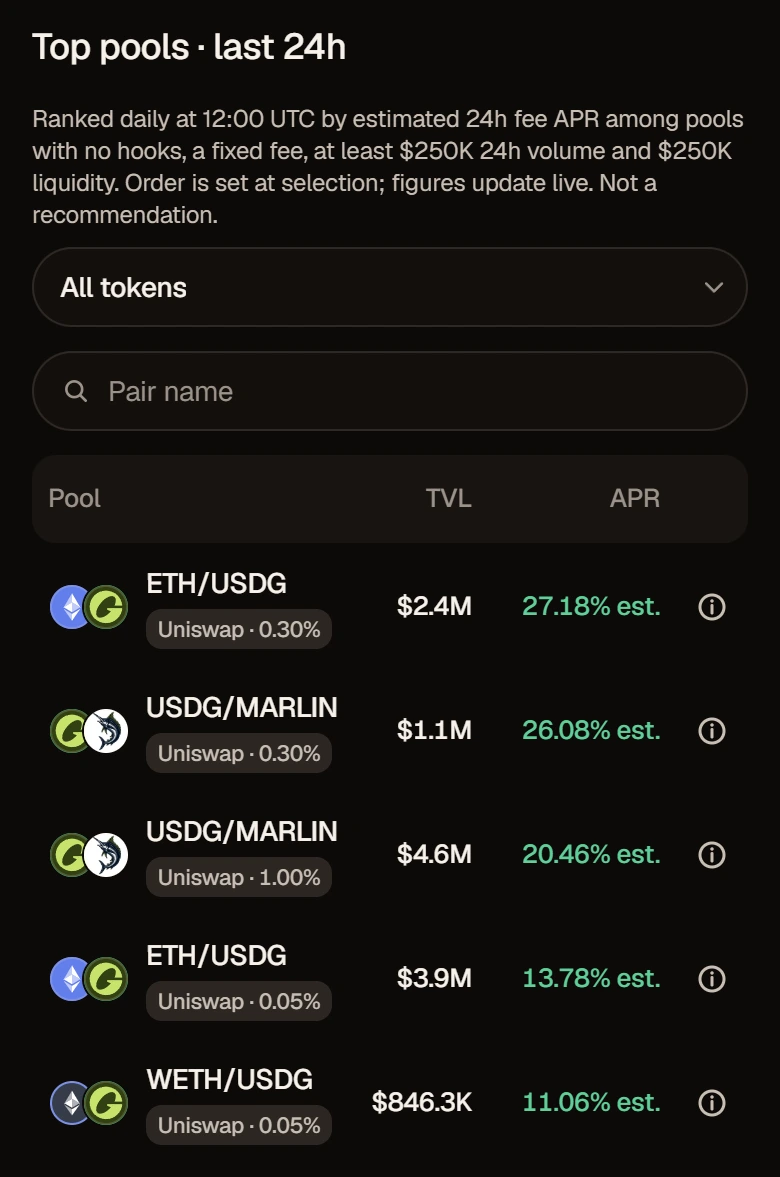
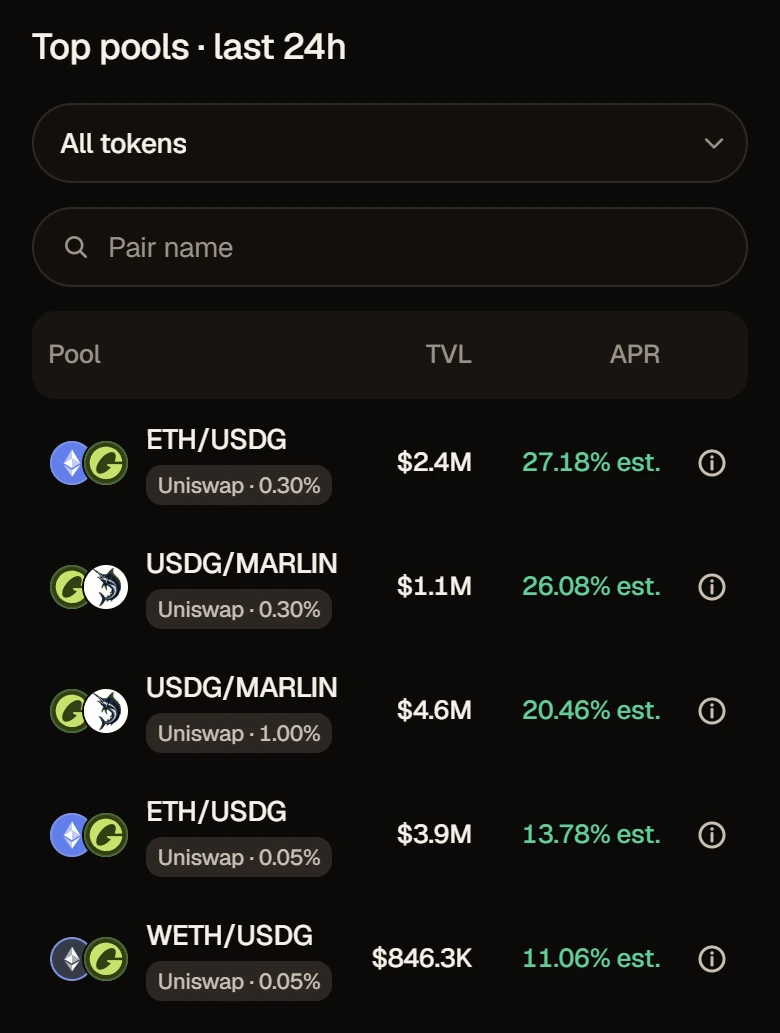
Top pools: no method line; newly listed pools wait for their first figures (#252)
* Top pools: remove the method line under the title

The owner, 2026-09-28: "Não precisa ter essa descrição." The line under
"Top pools · last 24h" ("Ranked daily at 12:00 UTC by estimated 24h fee
APR ... Not a recommendation.") is gone from Home and Markets, with its CSS,
and featuredList.ts no longer writes it: methodLine, usdFloor,
FEATURED_SELECTION_TIME_UTC and the list's `method` field are removed.

The title and the Pinned chip stay as they were. The criterion title still
needs a current list that names its rules (it used to need the line, which
needed the rules), so a current list with `rules: null` keeps the neutral
title, now tested. The docs page no longer points to "the line under the
title"; the README says the line was removed.

Tests changed on purpose, each with a dated note: featured-list (the line's
text and its selection-time test become title tests), release.browser (r)
asserts no line anywhere, render and release.browser (s)/(t) keep only the
Pinned-chip check, pool-workspace's stub drops the field.

* Pool figures: wait for a pool's first collection, and past a rate-limited one

The owner's Home on production, 2026-09-28, the first day of the daily list:
ETH/NOTE and PONS/USDG said Unavailable for TVL and 24h volume, and the
Worker saw the overview asked at 12:53:13, :16 and :19, then nothing.

The page waited for a pool's figures only when the store had once kept
provider figures for it (cache ageSeconds set), and stopped waiting at the
[…]

diff --git a/app/src/lib/read/marketsProvider.ts b/app/src/lib/read/marketsProvider.ts
@@ -139,6 +139,38 @@
  * store's own time), 0.2 s on a later visit (1.6 s before, 2.7 s and 3.5 s
  * when the list or the store was slow), 7.4 s after a first overview that
  * failed (never before).
+ *
+ * Changed 2026-09-28, from the owner's Home on production, the first day of
+ * the daily list: ETH/NOTE and PONS/USDG said Unavailable within seconds, the
+ * overview was asked at 12:53:13, :16 and :19, and then not before the
+ * minute. The rule above waited only for a pool whose provider figures the
+ * store had once kept (`ageSeconds` set), and stopped at the first collection
+ * published without figures, even one the provider had rate limited. The
+ * store serves `ageSeconds` null whenever its collector holds no figures for
+ * the pool at all (backend/market_cache.py `_result`): never fetched since the
+ * collector started, and every call since refused, rate limited or failed. A
+ * pool never collected has no stored value at all (acquisition `pending`).
+ * Both are collected within five seconds of this very request as well, so:
+ *
+ *   - a pool whose figures are coming is one with none on hand (no stored
+ *     value, or provider figures unavailable) whose store's last collection
+ *     did not fail and whose next one runs now or within
+ *     CATCH_UP_HORIZON_MS, whatever `ageSeconds` says (catchUpInMs);
+ *   - a pool with no stored value shows its placeholder in the catalogue row
+ *     (`placeholders`) under the same CATCH_UP_SHOWN_MS as a read row;
+ *   - a collection the provider was busy or rate limited for (providerWasBusy)
+ *     does not end the wait: the next one, seconds later while the pool is
+ *     wanted, may bring the figures, so the asks go on to the end of
+ *     CATCH_UP_WINDOW_MS. A collection that brought none for any other reason
+ *     (the provider does not list the pool, say) still ends it at once, so
+ *     such a pool costs a visit an ask or two and a placeholder of a few
+ *     seconds (6.5 s when the store collects on time, CATCH_UP_SHOWN_MS at the
+ *     most), not the twenty seconds that made the review of 2026-09-25 leave
+ *     it out.
+ *
+ * A row still unavailable after the window is asked again with the ordinary
+ * refresh, once a minute while the page can be seen (a hidden page waits
+ * until it can be), in place and quietly; nothing else changes.
  */
 import type { PoolMarketResponse, SnapshotPoolEntry, VerifiedPool } from 'api-contracts/read-v1/types'
 import type { StoredPool } from 'api-contracts/read-v3/types'
@@ -167,7 +199,14 @@ export interface Retained {
 export type MarketsState =
   /** `retrying` is the failure a refresh is trying to get past, still on screen meanwhile. */
   | { phase: 'loading'; previous: MarketsResult | null; retrying: FailedOutcome | null }
-  | { phase: 'ready'; result: MarketsResult; problems: MarketProblem[]; acquiring?: boolean }
+  | {
+      phase: 'ready'
+      result: MarketsResult
+      problems: MarketProblem[]
+      acquiring?: boolean
+      /** Pools with no row yet whose figures are coming: their catalogue rows show a placeholder, lowercase (see the header). */
+      placeholders?: readonly string[]
+    }
   /** Nothing new to show. `retained` is the last good read, already marked stale. */
   | { phase: 'failed'; failure: FailedOutcome; retained: Retained | null }
 
@@ -258,15 +297,15 @@ export const CATCH_UP_SHOWN_MS = 8_000
 /**
  * How far off a stored pool's figures are, when they are coming: in MILLISECONDS of server time from the answer
  * (`nextAttemptAt - generatedAt`, never this browser's clock), 0 while a collection runs. Null when they are not
- * coming soon: figures on hand; a pool the provider never gave figures for (`ageSeconds` null: nothing to bring
- * back); a collection that failed (`reason` set: the store backs it off for up to five minutes and a request does
- * not bring it forward); a next collection further off than CATCH_UP_HORIZON_MS, or none named; a rejected pool.
+ * coming soon: figures on hand, or provider figures rejected; a collection that failed (`reason` set: the store backs
+ * it off for up to five minutes and a request does not bring it forward); a next collection further off than
+ * CATCH_UP_HORIZON_MS, or none named; a rejected pool. Changed 2026-09-28 (see the header): a pool with no stored
+ * value yet, and one whose collector holds no figures for it (`ageSeconds` null), are coming too.
  */
 export function catchUpInMs(entry: StoredPool, generatedAt: number): number | null {
   const { value, acquisition } = entry
-  if (value === null || acquisition.status !== 'ready' || acquisition.reason !== null) return null
-  const market = value.market.market
-  if (market.status !== 'unavailable' || market.cache.ageSeconds === null) return null
+  if (acquisition.status === 'rejected' || acquisition.reason !== null) return null
+  if (value !== null && value.market.market.status !== 'unavailable') return null
   if (acquisition.refreshing) return 0
   if (acquisition.nextAttemptAt === null) return null
   const inMs = Math.max(0, acquisition.nextAttemptAt - generatedAt) * 1000
@@ -431,6 +470,8 @@ interface Load extends LoadedMarkets {
   catchUpInMs?: number | null
   /** Every pool of the stored overview whose figures are coming (`catchUpInMs`), lowercase, waiting or not; absent when no overview was read. */
   behind?: string[]
+  /** Pools with no row whose figures are coming, shown as a placeholder (MarketsState `placeholders`), lowercase. */
+  placeholders?: string[]
   /** Pools whose read did not bind to their entry (LoadOptions.binds), lowercase: they have no row. */
   unbound: string[]
   /** The stored overview this load read, as it came: what this browser keeps a copy of (marketsPaint.ts). */
@@ -605,6 +646,7 @@ async function readMarkets(
         acquisitionInMs: due.length ? Math.max(0, Math.min(...due) - overview.data.generatedAt) * 1000 : null,
         catchUpInMs: soonest,
         behind,
+        placeholders: [...figuresBehind].filter((id) => !ledger.sources.has(id)),
       }
     }
   }
@@ -865,7 +907,8 @@ export function createReadMarketsProvider({ source, poolIds: initialIds, pools, 
 
   /**
    * Whether a behind pool's row waits for its figures (LoadOptions.catchUp), asked as its answer arrives: not once
-   * a collection published since it began waiting brought none, nor when the ask that would bring them falls past
+   * a collection published since it began waiting brought none (unless the provider was busy or rate limited for
+   * it: the next collection may bring them; changed 2026-09-28), nor when the ask that would bring them falls past
    * CATCH_UP_WINDOW_MS from the answer it began waiting with, or at the ordinary refresh, nor while no screen holds
    * the quiet re-asks. It shows a placeholder only while that ask falls within CATCH_UP_SHOWN_MS.
    */
@@ -876,7 +919,7 @@ export function createReadMarketsProvider({ source, poolIds: initialIds, pools, 
     const at = clock.monotonic()
     const seen = behindSince.get(id)
     if (seen?.over) return false
-    const collected = seen !== undefined && (entry.observedAt ?? -1) > (seen.observedAt ?? -1)
+    const collected = seen !== undefined && (entry.observedAt ?? -1) > (seen.observedAt ?? -1) && !(entry.value && providerWasBusy(entry.value.market.market))
     const since = seen?.since ?? at
     const interval = catchUpIntervalMs(inMs)
     const over = collected || interval >= activeRefreshMs || at - since + interval > CATCH_UP_WINDOW_MS
@@ -957,7 +1000,6 @@ export function createReadMarketsProvider({ source, poolIds: initialIds, pools, 
       if (age >= TOKEN_METADATA_CACHE_MS || age < 0) memory.tokens?.delete(address)
     }
     const retrying = from.phase === 'failed' ? from.failure : from.phase === 'loading' ? from.retrying : null
-    const problemsBefore = from.phase === 'ready' ? from.problems : []
     if (!inPlace) set({ phase: 'loading', previous, retrying })
     // Rows whose figures are coming wait for them only where this provider asks again on its own.
     memory.catchUp = refreshMs > 0 ? catchUpWaits : undefined
@@ -999,7 +1041,7 @@ export function createReadMarketsProvider({ source, poolIds: initialIds, pools, 
           const row = read ? withKept(read) : previous?.markets.find((m) => key(m.poolId) === key(poolId))
           return row ? [row] : []
         })
-        set(inPlace ? { phase: 'ready', result: resultOf(markets), problems: problemsBefore } : { phase: 'loading', retrying, previous: resultOf(markets) })
+        set(inPlace && from.phase === 'ready' ? { ...from, result: resultOf(markets) } : { phase: 'loading', retrying, previous: resultOf(markets) })
       },
       memory,
       quiet && ledger && again ? { ledger, plan: again } : undefined,
@@ -1056,7 +1098,7 @@ export function createReadMarketsProvider({ source, poolIds: initialIds, pools, 
     const catchUp = !quiet && loaded.catchUpInMs != null ? catchUpIntervalMs(loaded.catchUpInMs) : null
     if (!quiet) catchUpAsks = catchUp === null ? 0 : catchUpAsks + 1
     if (!quiet) nextRefresh(loaded.problems.length > 0, markets.length > 0, loaded.acquiring, { inMs: loaded.acquisitionInMs ?? null, running: loaded.acquisitionRunning === true }, catchUp)
-    set({ phase: 'ready', result: resultOf(markets), problems: loaded.problems, ...(loaded.acquiring ? { acquiring: true } : {}) })
+    set({ phase: 'ready', result: resultOf(markets), problems: loaded.problems, ...(loaded.acquiring ? { acquiring: true } : {}), ...(loaded.placeholders?.length ? { placeholders: loaded.placeholders } : {}) })
     settledLoad(loaded.unbound)
   }
 

diff --git a/app/src/lib/read/featuredList.ts b/app/src/lib/read/featuredList.ts
@@ -42,7 +42,6 @@ import type { FeaturedPool, FeaturedPoolsResponse } from 'api-contracts/read-v5/
 import { mainTokenAt, readsAsMainToken } from '../../config/mainTokens'
 import { SELECTED_POOL_CATALOGUE, catalogueTokens, type PoolCatalogueEntry } from '../../config/selectedPoolCatalogue'
 import { createBridgeSource, type BridgeOptions } from './bridgeSource'
-import { formatUsdCompact } from './decimal'
 import type { PoolList } from './marketsProvider'
 import { realClock, type Clock } from './pipeline'
 import { fixedFeePercent } from './screens/fee'
@@ -203,12 +202,10 @@ export interface FeaturedList {
   entries: readonly PoolCatalogueEntry[]
   /** The server's listId; null for the embedded list. */
   listId: string | null
-  /** The method line of a `server` list (§11.7, option B), from the answer's own rules; null otherwise. */
-  method: string | null
 }
 
 /** The embedded list: config/selectedPools.ts with its labels. */
-export const BUNDLED_LIST: FeaturedList = Object.freeze({ source: 'bundled', entries: SELECTED_POOL_CATALOGUE, listId: null, method: null })
+export const BUNDLED_LIST: FeaturedList = Object.freeze({ source: 'bundled', entries: SELECTED_POOL_CATALOGUE, listId: null })
 
 /** Bundled artwork for a token by its exact address: the main tokens', else the embedded list's; none for any other token. */
 function artworkAt(address: string) {
@@ -256,29 +253,6 @@ export function bindsToEntry(entry: PoolCatalogueEntry | undefined, pool: Verifi
     && currencies.length === 2 && currencies[0] === want.currency0 && currencies[1] === want.currency1
 }
 
-/** "$250K", "$1.5M": a rule's USD floor as the method line writes it. */
-function usdFloor(text: string): string | null {
-  return formatUsdCompact(text)?.replace(/\.0(?=[KMB]$)/, '') ?? null
-}
-
-/**
- * The hour of the daily selection, as the owner approved it (spec §15, question 8: "12:00 UTC, one a day"): the
- * policy's `selectionHourUtc`, which the answer does not carry. Never the answer's `effectiveAt`: the service sets
- * that to when it served the list, so a repair at 17:42 or a list published at 12:07 would print that time (fixed
- * 2026-09-26 after review).
- */
-export const FEATURED_SELECTION_TIME_UTC = '12:00'
-
-/** The method line of §11.7 option B, from the answer's rules; null without them. */
-export function methodLine(answer: FeaturedPoolsResponse): string | null {
-  const rules = answer.rules
-  if (!rules) return null
-  const volume = usdFloor(rules.minVolume24hUsd)
-  const tvl = usdFloor(rules.minTvlUsd)
-  if (!volume || !tvl) return null
-  return `Ranked daily at ${FEATURED_SELECTION_TIME_UTC} UTC by estimated 24h fee APR among pools with no hooks, a fixed fee, at least ${volume} 24h volume and ${tvl} liquidity. Order is set at selection; figures update live. Not a recommendation.`
-}
-
 /** The list an answer puts on screen by itself (§11.2), as on a page's first read. */
 export function listFrom(answer: FeaturedAnswer): FeaturedList {
   if (answer.kind !== 'list') return BUNDLED_LIST
@@ -287,8 +261,9 @@ export function listFrom(answer: FeaturedAnswer): FeaturedList {
   // Every time is the server's own. A list without them, or older than 72 h when served, is not shown.
   if (pools.length === 0 || generatedAt === null || validUntil === null || servedAt > generatedAt + FEATURED_MAX_AGE_SECONDS) return BUNDLED_LIST
   const current = (body.status === 'current' || body.status === 'repaired') && servedAt <= validUntil
-  const method = current ? methodLine(body) : null
-  return { source: current && method ? 'server' : 'server_neutral', entries: pools.map(entryOf), listId: body.listId, method }
+  // The criterion title only for a list that names the rules it was ranked by. The method line that spelled them out
+  // under the title was removed 2026-09-28 (the owner: "Não precisa ter essa descrição"); the docs page says how.
+  return { source: current && body.rules !== null ? 'server' : 'server_neutral', entries: pools.map(entryOf), listId: body.listId }
 }
 
 const idsOf = (list: FeaturedList) => list.entries.map((entry) => entry.poolId)
@@ -310,7 +285,7 @@ export function nextList(shown: FeaturedList, waiting: FeaturedList | null, answ
   const candidate = listFrom(answer)
   if (candidate.source === 'bundled') return { shown: BUNDLED_LIST, waiting: null }
   // The same list: its pools and order stay; its title follows the answer (a list gone stale says so).
-  if (shown.source !== 'bundled' && candidate.listId === shown.listId) return { shown: { ...shown, source: candidate.source, method: candidate.method }, waiting: null }
+  if (shown.source !== 'bundled' && candidate.listId === shown.listId) return { shown: { ...shown, source: candidate.source }, waiting: null }
   const ids = idsOf(candidate)
   if (shown.source !== 'bundled' && onlyRemovals(idsOf(shown), ids)) return { shown: candidate, waiting: null }
   // New pools or a new order wait. Pools the service no longer lists leave the list on screen at once, unless none would stay.
@@ -366,9 +341,9 @@ export function createFeaturedStore({ read, clock = realClock }: { read: (signal
     const ids = idsOf(shown).join()
     if (ids !== idsOf(snapshot).join()) shownAt = clock.monotonic()
     const same = snapshot.settled && ids === idsOf(snapshot).join() && shown.listId === snapshot.listId && shown.source === snapshot.source
-      && shown.method === snapshot.method && [...withdrawn].join() === [...snapshot.withdrawn].join()
+      && [...withdrawn].join() === [...snapshot.withdrawn].join()
     if (same) return
-    snapshot = { source: shown.source, entries: shown.entries, listId: shown.listId, method: shown.method, settled: true, withdrawn }
+    snapshot = { source: shown.source, entries: shown.entries, listId: shown.listId, settled: true, withdrawn }
     for (const listener of listeners) listener()
   }
   // A failure says nothing about removals: the ones known stay.

diff --git a/app/src/components/MarketsTable.tsx b/app/src/components/MarketsTable.tsx
@@ -229,8 +229,9 @@ function PinnedChip() {
  */
 function CatalogueRow({ poolId, entry, full, loading, token, pinned }: { poolId: string; entry: PoolCatalogueEntry; full: boolean; loading: boolean; token: string | null; pinned: boolean }) {
   const href = poolHref(poolId, token)
-  // While the first markets read is out, each figure rests as a bubble at its text line's size, so the row keeps
-  // its height and nothing reads as missing; once it has settled without a row, the dashes say what is unavailable.
+  // While the first markets read is out, or briefly while the store is about to collect the pool for the first time
+  // (2026-09-28), each figure rests as a bubble at its text line's size, so the row keeps its height and nothing reads
+  // as missing; once it has settled without a row, the dashes say what is unavailable.
   const bubble = (className: string) => <Skeleton className={cx('dm-mkt-bubble', className)} />
   return (
     <tr className="dm-mkt-row" data-pool-catalogue={poolId} data-pool-row={full ? poolId : undefined} data-row-loading={loading ? '' : undefined} onClick={(event) => followRow(event, href)}>
@@ -374,9 +375,6 @@ export function MarketsTable({
   const said = marketsStatus(state)
   const status = diagnostics ? <ReadStatus status={said} onRetry={retry} /> : <ReadStatus status={said} quiet />
 
-  // The method line under the criterion title (§11.7, option B): the answer's own rules and time, no link.
-  const method = !full && ranked && featured.method ? <p className="dm-mkt-method" data-featured-method="">{featured.method}</p> : null
-
   const table = (
     <TableShell
       label={title}
@@ -402,7 +400,6 @@ export function MarketsTable({
       status={
         full ? undefined : (
           <>
-            {method}
             {notice}
             {status}
           </>
@@ -439,7 +436,8 @@ export function MarketsTable({
             market ? (
               <Row key={poolId} m={market} now={now} full={full} onFigures={() => setFiguresKey(market.key)} poolToken={poolToken ?? token} pinned={ranked && catalogue?.pinned === true} />
             ) : catalogue ? (
-              <CatalogueRow key={poolId} poolId={poolId} entry={catalogue} full={full} loading={state.phase === 'loading'} token={token} pinned={ranked && catalogue.pinned === true} />
+              // A pool the store is about to collect for the first time keeps its placeholder briefly (marketsProvider.ts).
+              <CatalogueRow key={poolId} poolId={poolId} entry={catalogue} full={full} loading={state.phase === 'loading' || (state.phase === 'ready' && state.placeholders?.includes(poolId.toLowerCase()) === true)} token={token} pinned={ranked && catalogue.pinned === true} />
             ) : null,
           )}
         </tbody>

diff --git a/app/src/lib/docs/shots.ts b/app/src/lib/docs/shots.ts
@@ -4,7 +4,7 @@
  * a made-up world. Do not edit by hand: re-run the script (its header has the command), and commit this file with the images.
  */
 export const SHOTS = {
-  'markets': { width: 1672, height: 1115, phone: { width: 780, height: 1177 }, alt: 'The Markets page: a table of pools, each with its pair, fee, price, TVL, 24-hour volume and APR.' },
+  'markets': { width: 1672, height: 1035, phone: { width: 780, height: 1033 }, alt: 'The Markets page: a table of pools, each with its pair, fee, price, TVL, 24-hour volume and APR.' },
   'pool': { width: 1672, height: 911, phone: { width: 780, height: 941 }, alt: 'A pool’s page: the pair, its fee and the Create a position button at the top, one sentence on what the pool earns, then its APR, 24-hour volume, TVL and price.' },
   'new-pool': { width: 1672, height: 1980, phone: { width: 780, height: 2128 }, alt: 'New position, step 1: a token is typed, the pools that trade it are listed with their figures, and one of them is chosen.' },
   'new-range': { width: 1672, height: 1436, phone: { width: 780, height: 1488 }, alt: 'New position, step 2: today’s price, the choice of how wide the range is, and its lowest and highest price.' },

diff --git a/app/src/lib/docs/pages/using.ts b/app/src/lib/docs/pages/using.ts
@@ -11,7 +11,9 @@ export const MARKETS: DocPage = {
       id: 'pools-table',
       title: 'The pools table',
       blocks: [
-        p('Markets lists selected Uniswap pools on Robinhood Chain. Once a day, at 12:00 UTC, Domino ranks pools with no hooks, a fixed fee and a minimum 24h volume and liquidity by estimated 24h fee APR; the line under the title states the thresholds. When that list is unavailable, a fixed selection is shown instead. Neither is a recommendation.'),
+        // 2026-09-28: the line under the table's title that stated the thresholds was removed (the owner), so this no
+        // longer points to it.
+        p('Markets lists selected Uniswap pools on Robinhood Chain. Once a day, at 12:00 UTC, Domino ranks pools with no hooks, a fixed fee and a minimum 24h volume and liquidity by estimated 24h fee APR. When that list is unavailable, a fixed selection is shown instead. Neither is a recommendation.'),
         shot('markets', 'Each row is a pool. Select it to open the pool’s page.'),
         list(
           [b('Price'), ': the pool’s own price between its two tokens, not a dollar price.'],

diff --git a/app/src/styles/markets.css b/app/src/styles/markets.css
@@ -271,8 +271,6 @@
   .dm-mkt-caption { caption-side: bottom; padding: 12px 16px 4px; text-align: left; font-size: 12px; line-height: 16px; letter-spacing: -0.12px; color: var(--fg-subtle); }
   .dm-mkt-footnote { max-width: 100ch; margin-top: 12px; font-size: 12px; line-height: 16px; letter-spacing: -0.12px; color: var(--fg-subtle); }
   .dm-mkt-notice { display: flex; flex-wrap: wrap; align-items: center; gap: 6px 8px; margin: 0 0 8px; font-size: 12px; line-height: 16px; letter-spacing: -0.12px; color: var(--fg-muted); }
-  /* The featured list's method line under its criterion title (featured pools v1 §11.7): shown only while that list is live. */
-  .dm-mkt-method { max-width: 100ch; margin: 0 0 8px; font-size: 12px; line-height: 16px; letter-spacing: -0.12px; color: var(--fg-muted); }
   .dm-mkt-empty { padding: 32px 8px; }
   /* No rows, so nothing to scroll sideways: the token search's list may open past the card instead of inside it. */
   .dm-mkt-table[data-filter-empty] > div:has(> .dm-table) { overflow: visible !important; }

diff --git a/app/src/screens/Explore.tsx b/app/src/screens/Explore.tsx
@@ -97,7 +97,6 @@ function MarketsList({ onToken }: { onToken: (candidate: TokenCandidate) => void
             ) : undefined
           }
         />
-        {ranked && featured.method && <p className="dm-mkt-method" data-featured-method="">{featured.method}</p>}
         <FilterBar asset={asset} query={query} onAsset={setAsset} onQuery={setQuery} />
         <div className="dm-mkt-pools-table">
           <MarketsTable variant="full" filter={{ asset, query }} onMatchCount={(shown, total) => setCount({ shown, total })} empty={empty} />

diff --git a/app/README.md b/app/README.md
@@ -422,7 +422,8 @@ the tab's gateway budget. A current or repaired list the contract's runtime and
 the app's own checks accept (no hooks, a fixed fee, no token that reads as ETH,
 WETH or USDG on another contract, no symbol with the text of a web address,
 nothing in `FEATURED_DENY`) becomes the rows, under "Top pools · last 24h" with
-its method line (always "Ranked daily at 12:00 UTC") and a Pinned chip; a carried-over, manual or stale one (within 72 h, by the server's
+a Pinned chip (the method line under the title was removed on 2026-09-28, the
+owner's call; the docs page says how the list is chosen); a carried-over, manual or stale one (within 72 h, by the server's
 clock) keeps the neutral "Selected pools". Anything else (`none`,
 `route_not_available`, an error, an invalid answer, the 1.5 s passing) keeps
 the embedded list above, exactly as before the list existed. Every 60 s the
